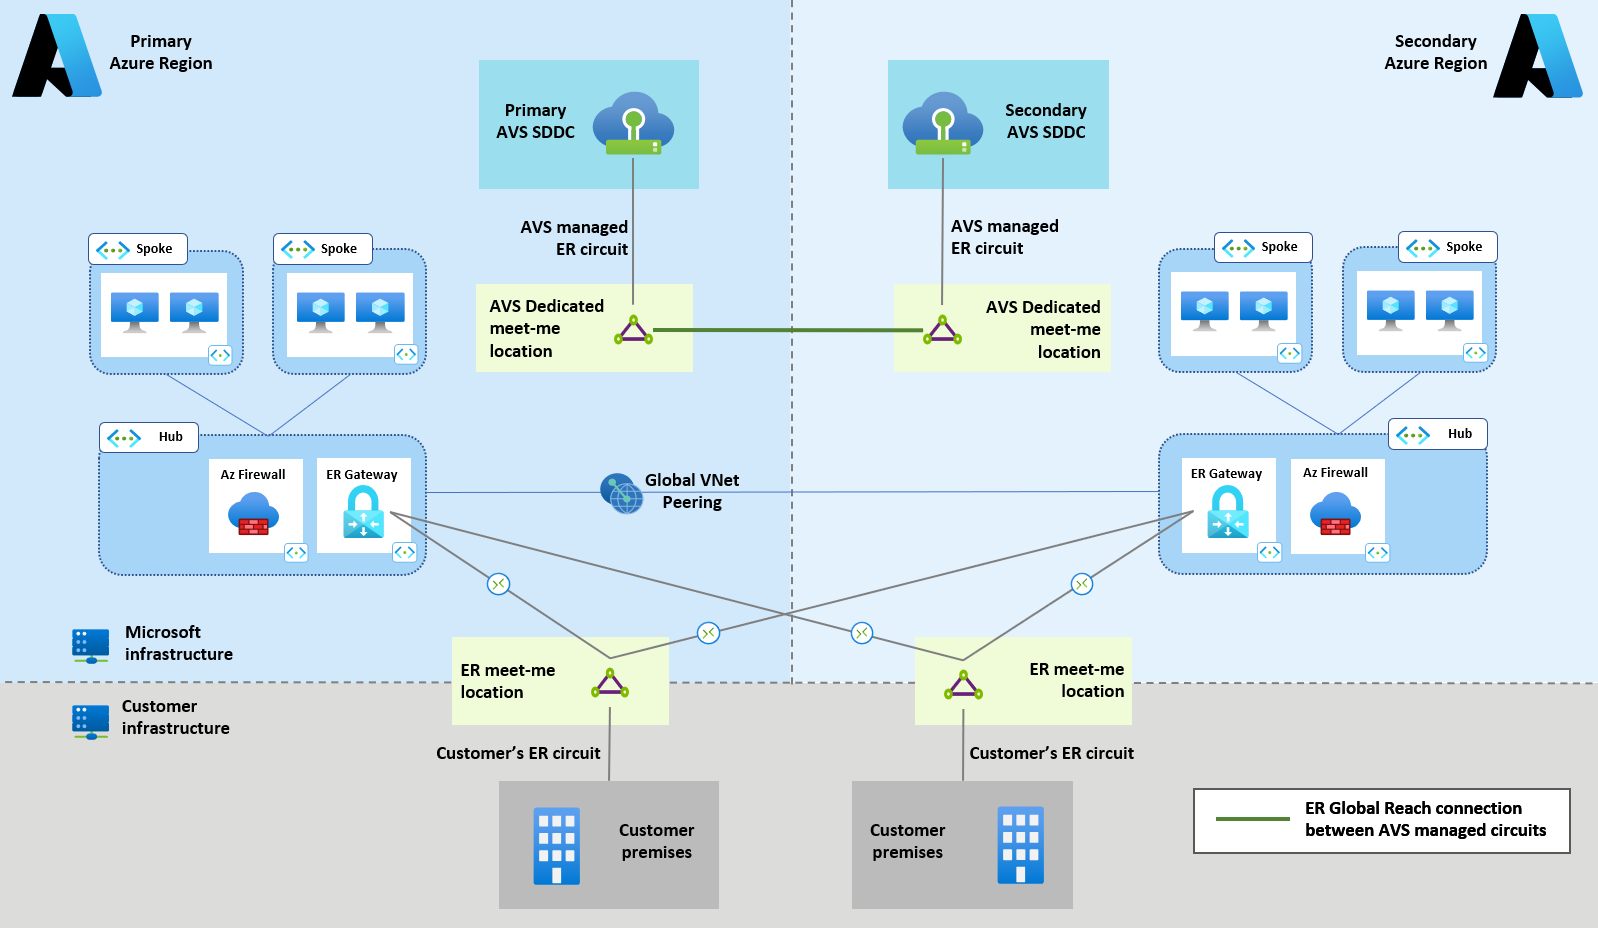
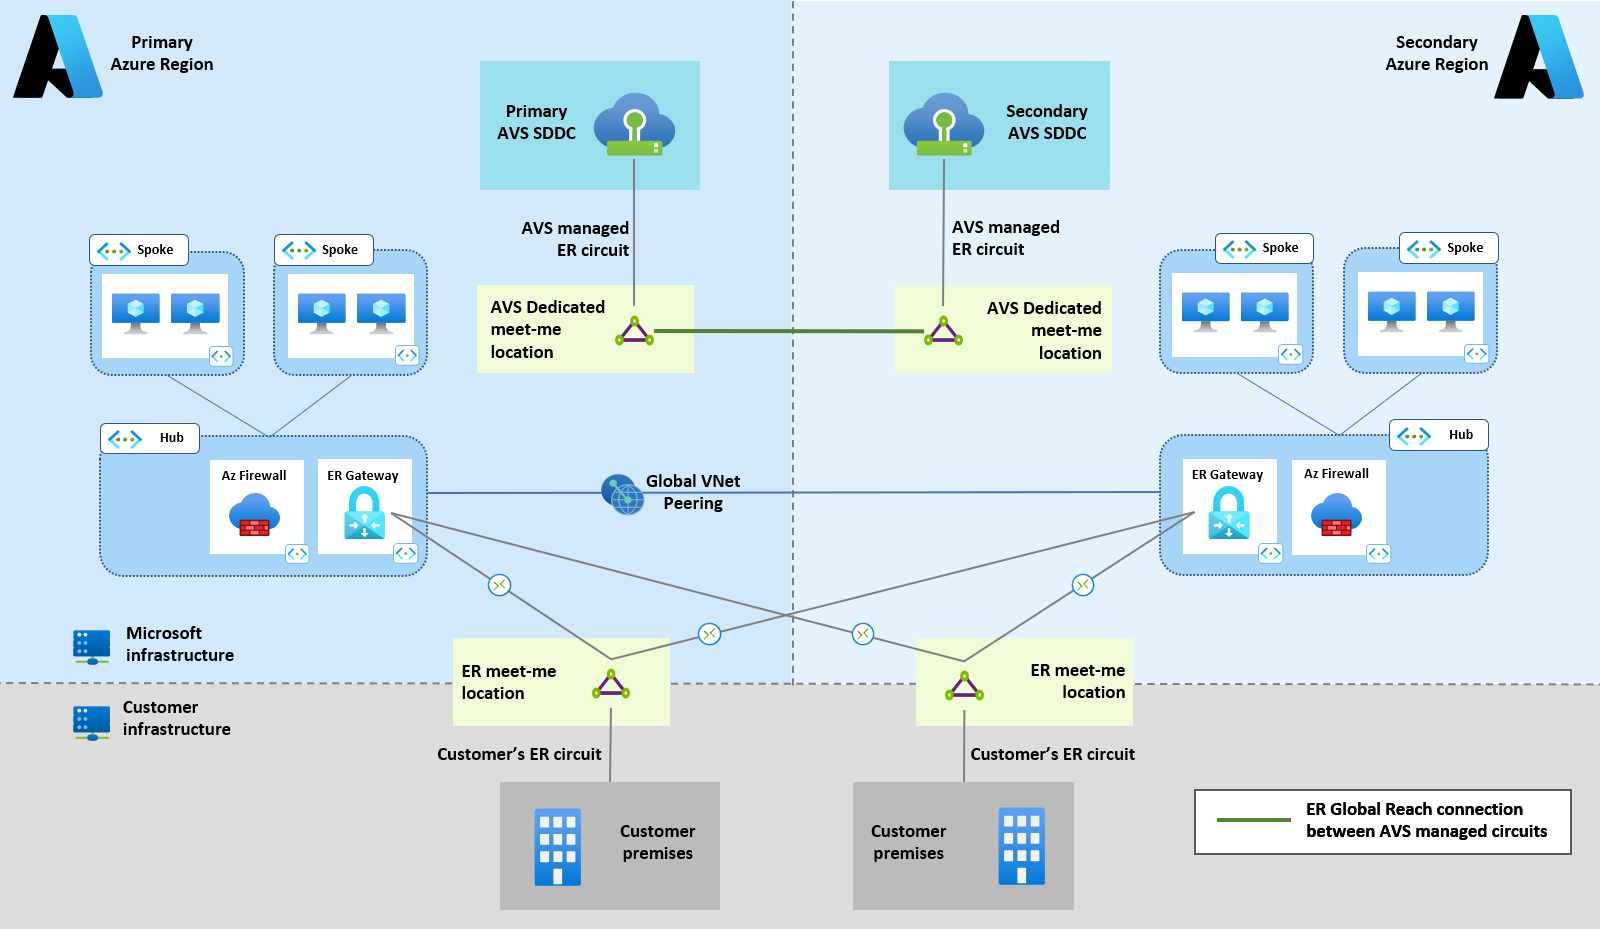
Additional digram updates

diff --git a/BrownField/Networking/Concepts/Connectivity-Multi-region/dual-region-hub-spoke.md b/BrownField/Networking/Concepts/Connectivity-Multi-region/dual-region-hub-spoke.md
@@ -39,7 +39,7 @@ Azure VNets can be connected to AVS private clouds through connections between E
 In dual-region scenarios, a full mesh is recommended for the ER connections between the two regional hub VNets and private clouds, as shown in Figure 4 (yellow lines).
 
 ![figure4](media/dual-region-fig4.png) 
-*Figure 4. By connecting each hub VNet’s Expressroute Gateway to each AVS private cloud’s managed Expressroute circuit (yellow lines), Azure native resources in each region have direct L3 connectivity to AVS private clouds.*
+*Figure 4. By connecting each hub VNet’s Expressroute Gateway to each AVS private cloud’s managed Expressroute circuit (yellow lines), Azure native resources in each region have direct L3 connectivity to AVS private clouds (the global VNet peering connection between the two hub VNets, shown in the previous diagrams, has been omitted for clarity).*
 
 ## Internet connectivity
 When deploying AVS private clouds in multiple regions, native options (managed SNAT or Public IPs down to the NSX-T) are recommended. Either option can be configured through the Azure portal (or via PowerShell, CLI or ARM/Bicep templates) at deployment time, as shown in Figure 5 below. 
